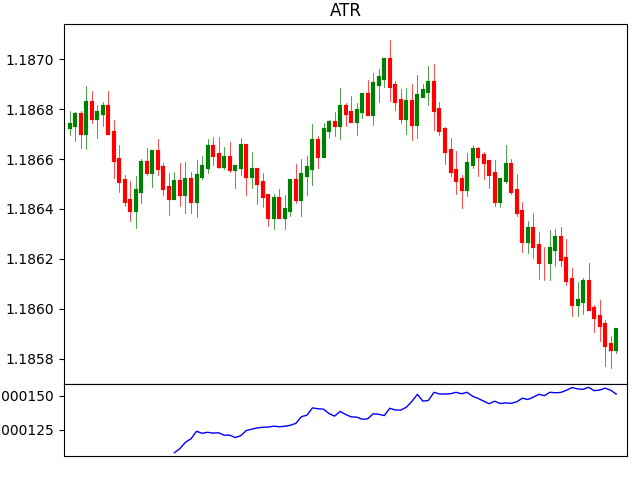
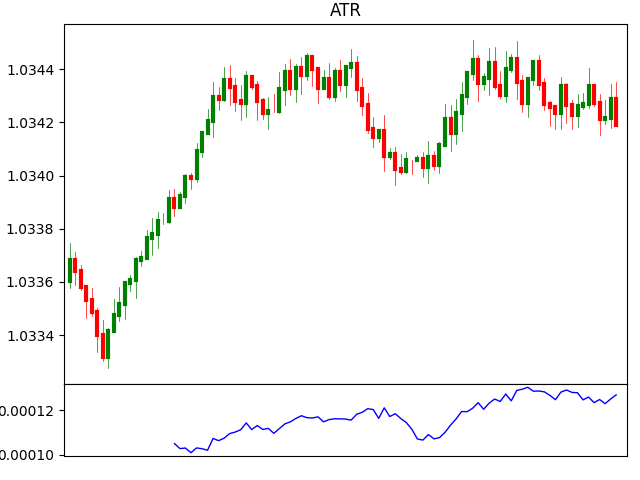
ATR

diff --git a/19-ATR/indicator.py b/19-ATR/indicator.py
@@ -7,9 +7,11 @@ def atr_dict(n,var):
         var[f'atr{n}']=[]
 
     if len(var['time'])==n:
-        atr=var['high'][-1]-var['low'][-1]
+        tr=max(var['high'][-1]-var['low'][-1],abs(var['high'][-1]-var['close'][-2]),abs(var['low'][-1]-var['close'][-2]))
+        atr=tr
     elif len(var['time'])>n:
-        atr=(var[f'atr{n}'][-1]*(n-1)+(var['high'][-1]-var['low'][-1]))/n
+        tr=max(var['high'][-1]-var['low'][-1],abs(var['high'][-1]-var['close'][-2]),abs(var['low'][-1]-var['close'][-2]))
+        atr=(var[f'atr{n}'][-1]*(n-1)+tr)/n
     else:
         atr=None
 
@@ -23,9 +25,11 @@ def atr_pandas(n,var):
 
     for i in range(df.shape[0]):
         if i+1==n:
-            df.at[i,f'atr{n}']=df.at[i,'high']-df.at[i,'low']
+            tr=max(df.at[i,'high']-df.at[i,'low'],abs(df.at[i,'high']-df.at[i-1,'close']),abs(df.at[i,'low']-df.at[i-1,'close']))
+            df.at[i,f'atr{n}']=tr
         elif i+1>n:
-            df.at[i,f'atr{n}']=(df.at[i-1,f'atr{n}']*(n-1)+(df.at[i,'high']-df.at[i,'low']))/n
+            tr=max(df.at[i,'high']-df.at[i,'low'],abs(df.at[i,'high']-df.at[i-1,'close']),abs(df.at[i,'low']-df.at[i-1,'close']))
+            df.at[i,f'atr{n}']=(df.at[i-1,f'atr{n}']*(n-1)+tr)/n
 
     var[f'atr{n}']=df[f'atr{n}'].tolist()
 

diff --git a/19-ATR/19-ATR.py b/19-ATR/19-ATR.py
@@ -12,7 +12,7 @@ class ATR:
         self.n=100
         self.fig=plt.figure()
         self.title='ATR'
-        self.calc_type='pandas'   #'dict' or 'pandas'
+        self.calc_type='dict'   #'dict' or 'pandas'
         self.indi=indi
 
     def set_variables(self):
